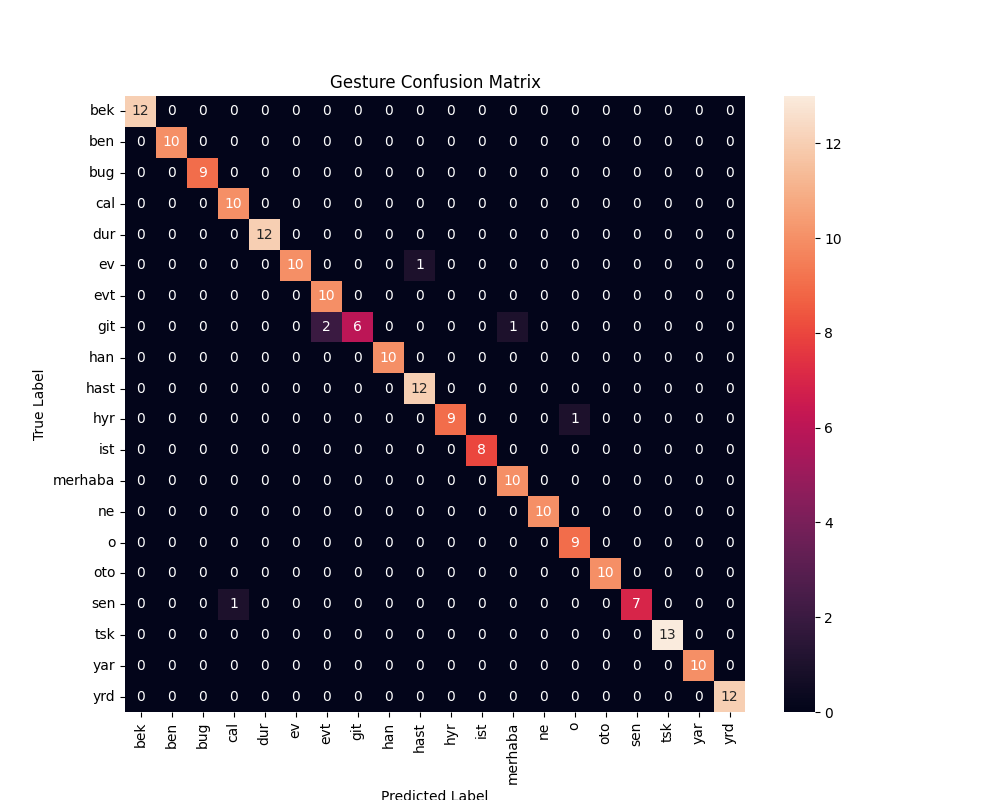
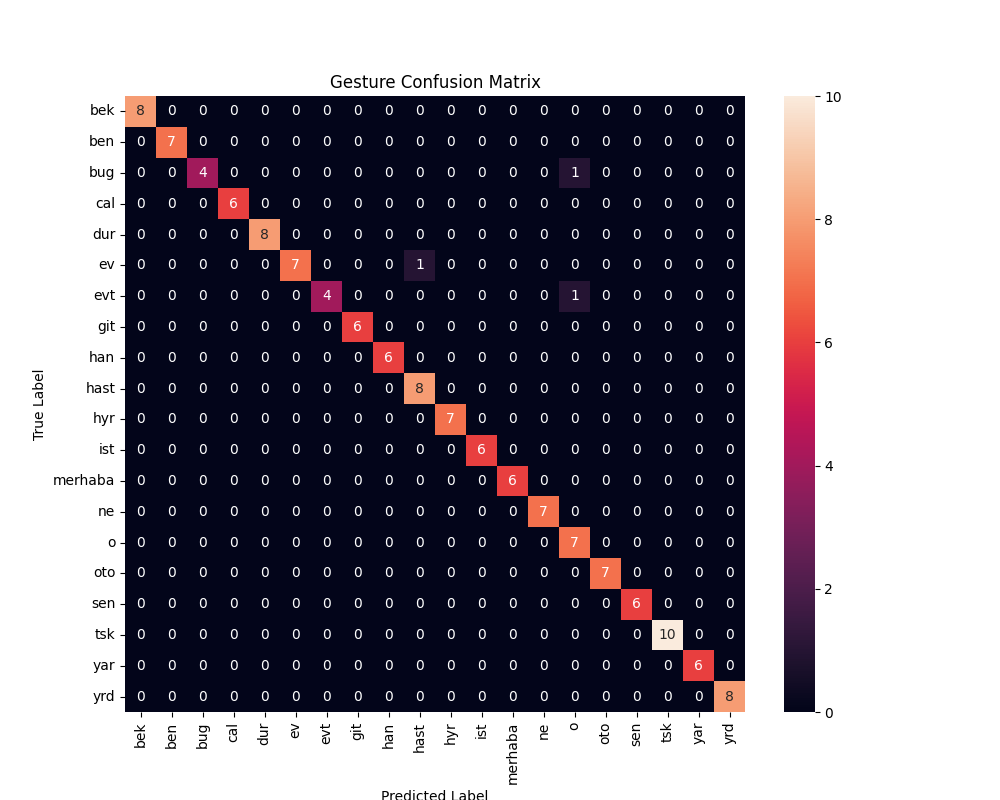
only female p
maybe "istemek"?

diff --git a/main.py b/main.py
@@ -279,7 +279,7 @@ def Train():
     # Train GestureModel on segmented data from participant folders
     print("\n2. Training GestureModel on segmented gesture data...")
     gesture_data = {}
-    for participant_id in range(1, 7):
+    for participant_id in range(1, 5):
         folder = f'rows_deleted/p{participant_id}'
         if not os.path.exists(folder):
             print(f"Warning: {folder} not found, skipping...")

diff --git a/rest_model.py b/rest_model.py
@@ -57,7 +57,7 @@ class RestDetector:
         
         print(f"\nLoading non-rest data from rows_deleted/p{{1-6}}...")
         not_rest_samples = []
-        for participant_id in range(1, 7):
+        for participant_id in range(1, 5):
             folder = f'rows_deleted/p{participant_id}'
             if os.path.exists(folder):
                 files = glob.glob(f'{folder}/*.npy') 
